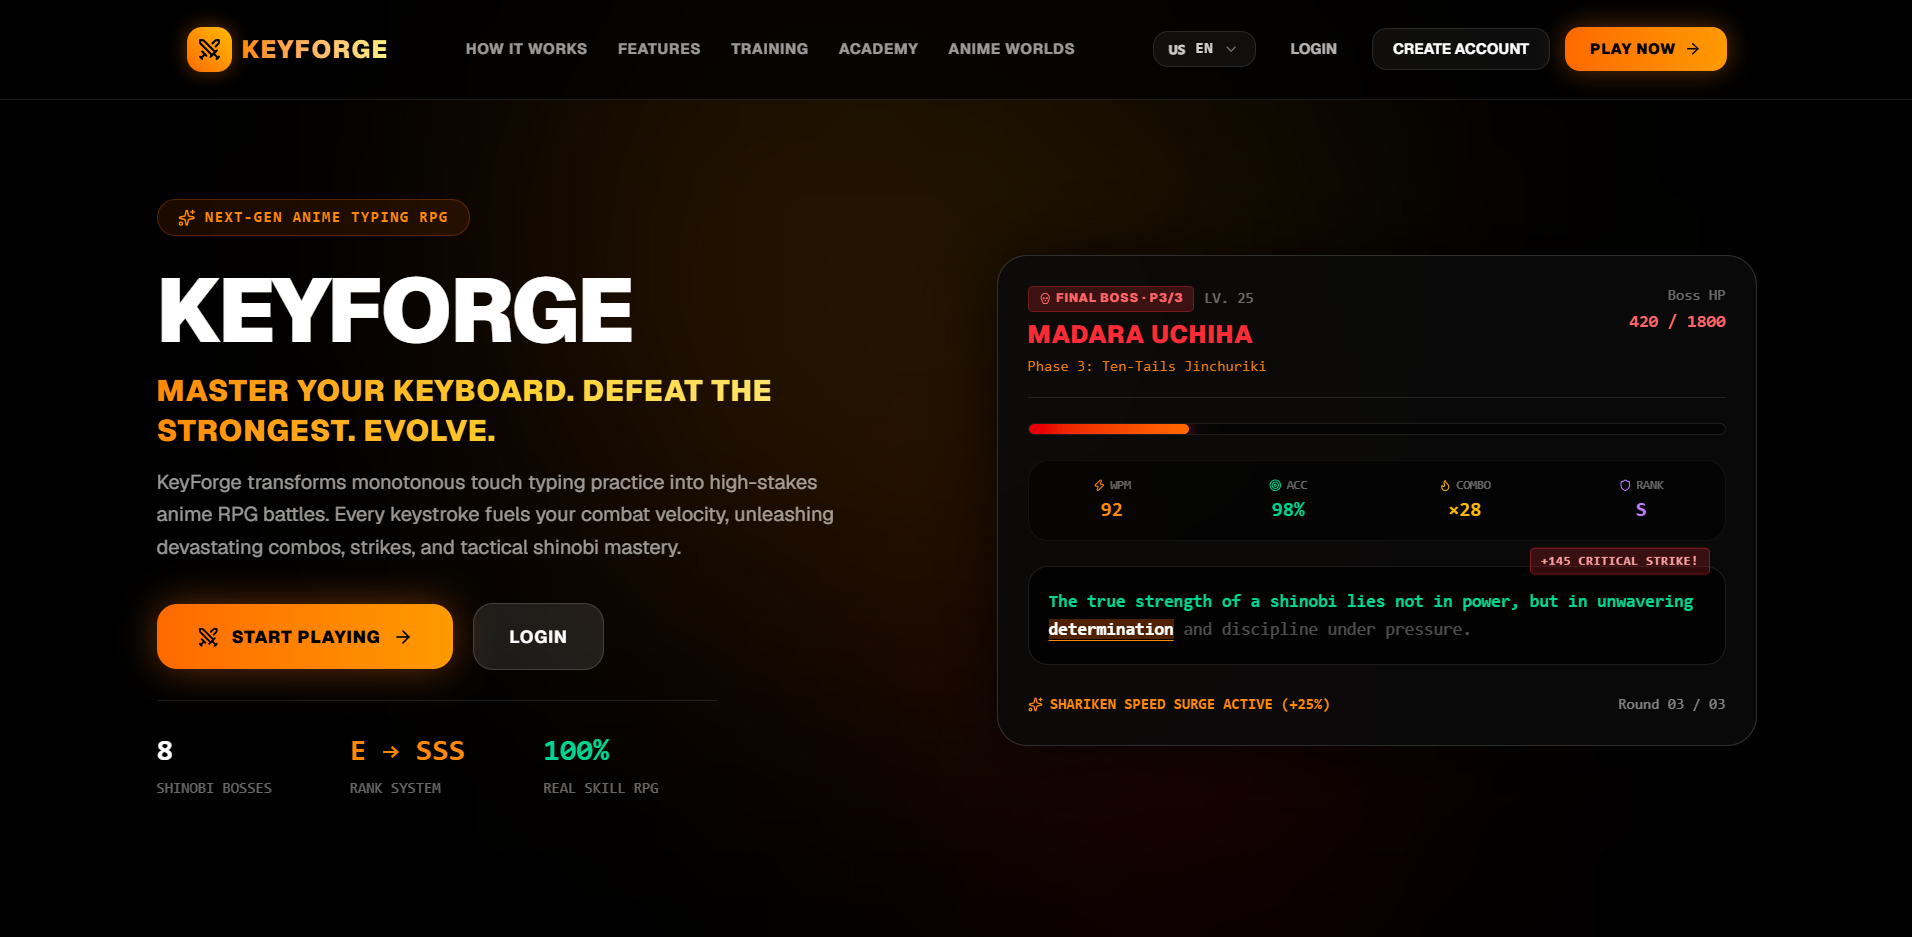
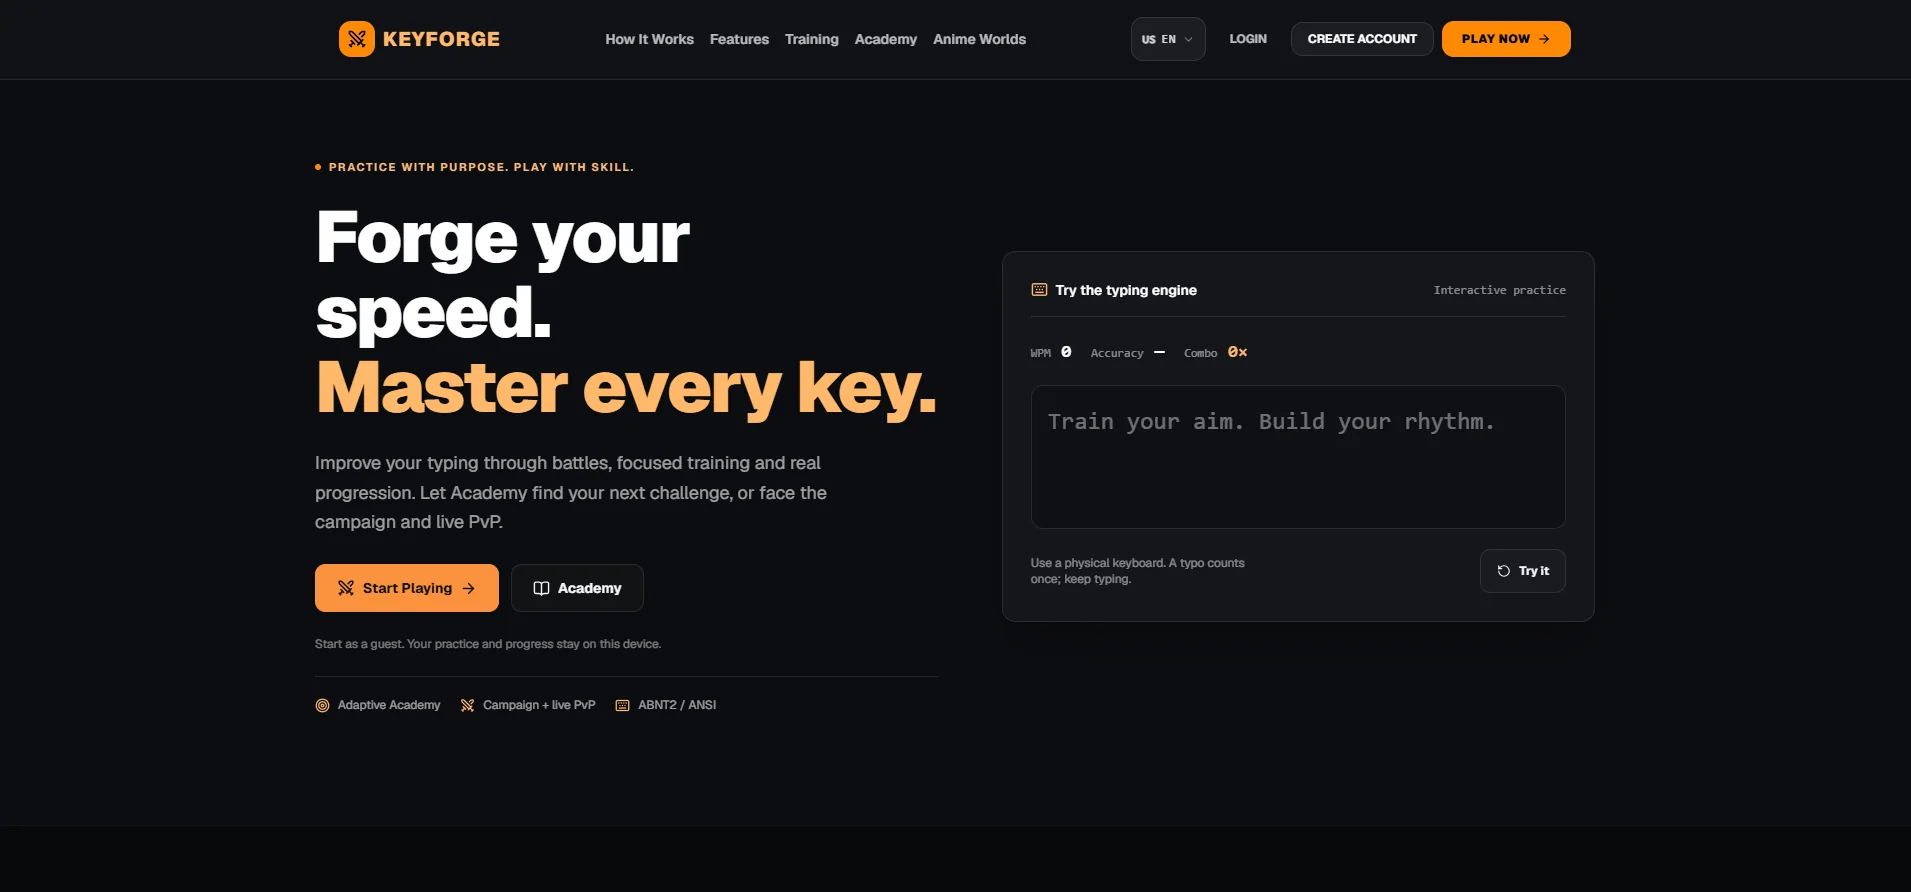
feat(projects): use current KeyForge and Je Parle Français screenshots
- Replace the outdated KeyForge image with the current homepage
  (keyforge-home.png) and drop the old unreferenced keyforge.png
- Give Je Parle Français its homepage screenshot instead of the
  placeholder cover
- Keep the originals and serve optimized WebP versions (43 KB and
  68 KB) in the cards' 2:1 frame; update alt text to match each image

diff --git a/src/data/projects.ts b/src/data/projects.ts
@@ -152,7 +152,7 @@ export const projectsData: Project[] = [
   {
     id: 'keyforge', slug: 'keyforge',
     image: '/images/projects/keyforge.webp',
-    imageAlt: { en: 'KeyForge typing game homepage with a boss battle preview', pt: 'Página inicial do jogo de digitação KeyForge com prévia de uma batalha contra chefe' },
+    imageAlt: { en: 'KeyForge homepage with the headline "Forge your speed. Master every key." and an interactive typing engine', pt: 'Página inicial do KeyForge com o título "Forge your speed. Master every key." e um motor de digitação interativo' },
     title: { en: 'KeyForge', pt: 'KeyForge' },
     description: {
       en: 'An anime-inspired typing game with 1v1 PvP battles over WebSockets, a server-authoritative Node.js backend and a touch-typing academy.',
@@ -180,6 +180,8 @@ export const projectsData: Project[] = [
   },
   {
     id: 'je-parle-francais', slug: 'je-parle-francais',
+    image: '/images/projects/je-parle-francais.webp',
+    imageAlt: { en: 'Je Parle Français homepage: "Francês para a vida real." beside a tutor correction of a French sentence', pt: 'Página inicial do Je Parle Français: "Francês para a vida real." ao lado de uma correção do tutor em uma frase em francês' },
     title: { en: 'Je Parle Français', pt: 'Je Parle Français' },
     description: {
       en: 'A French-learning platform for Brazilians preparing to study, work or live in Canada or France, with adaptive placement, personalized daily plans and an AI tutor.',
